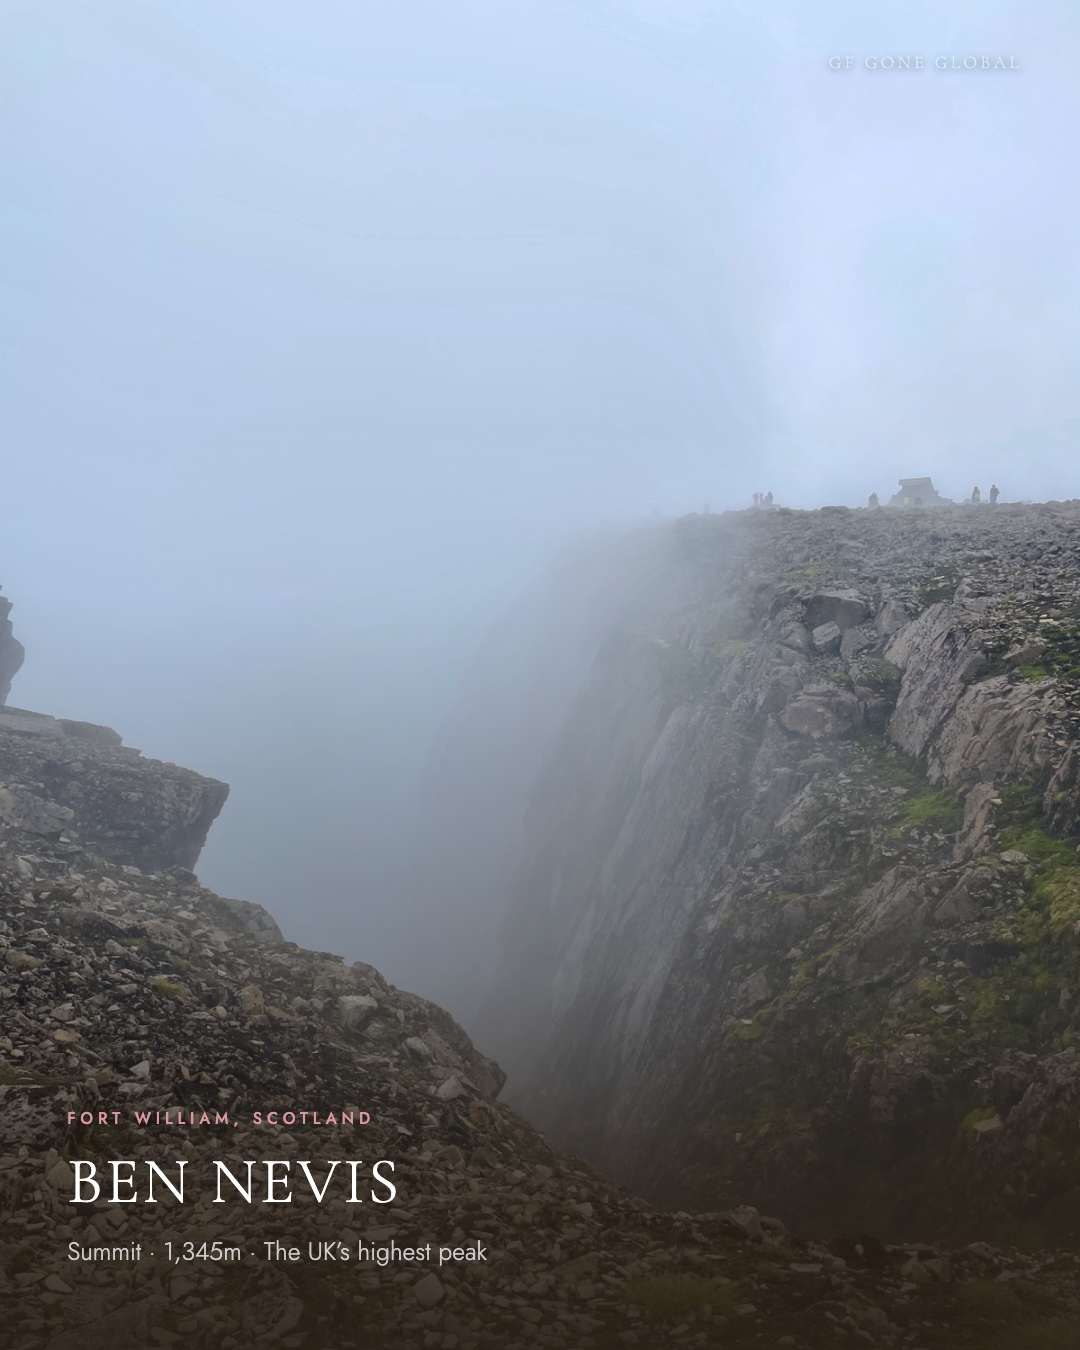
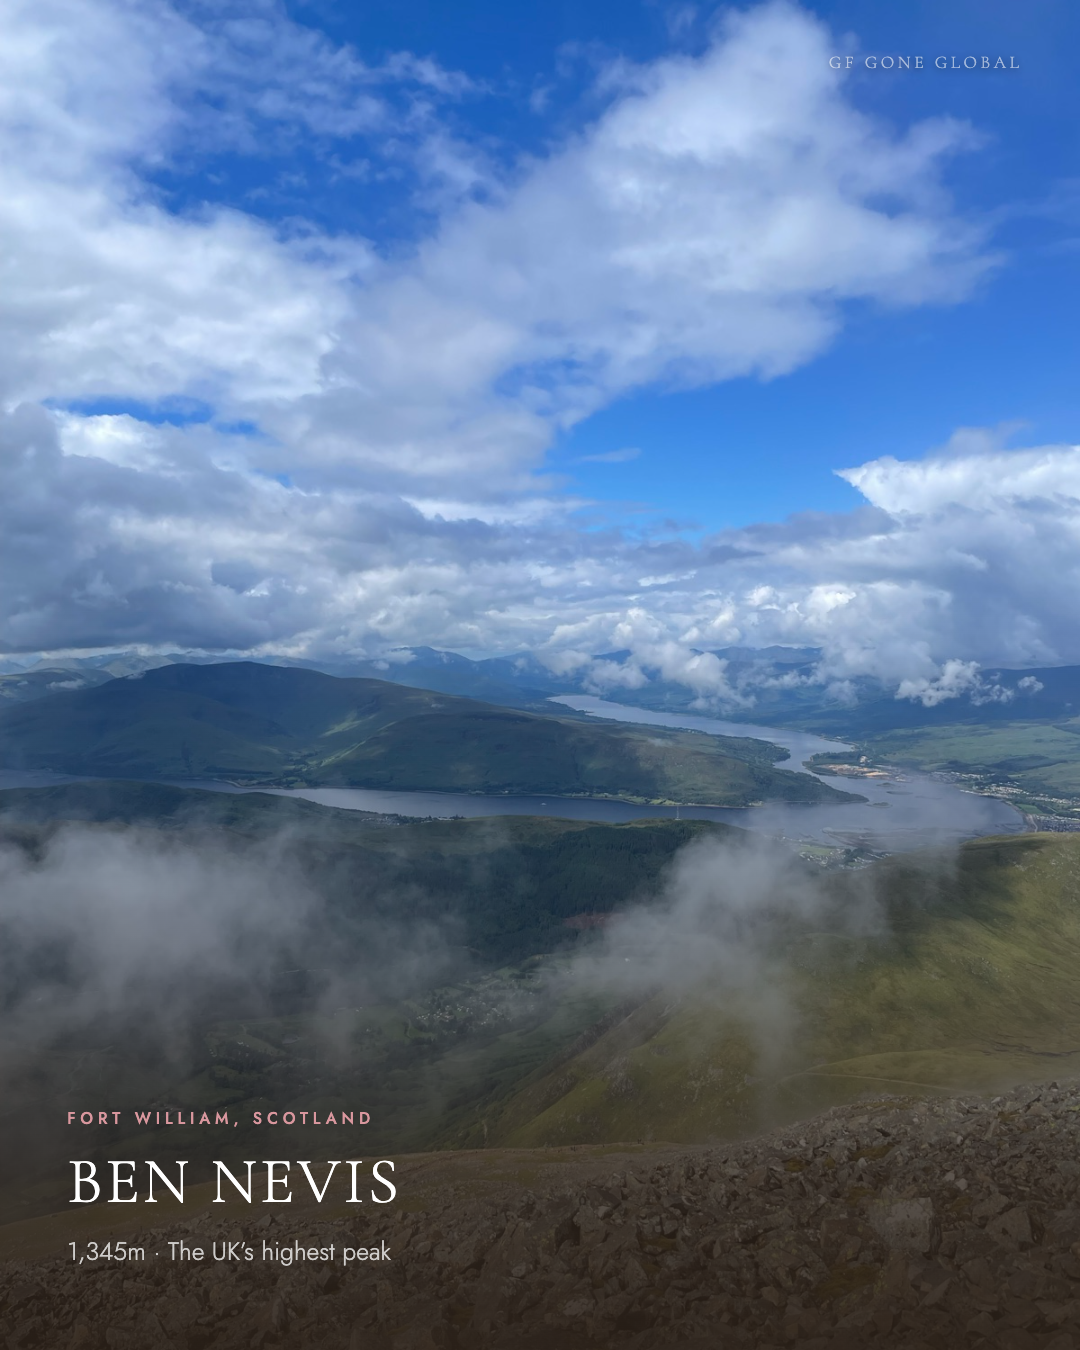
Fort William: lead with the Loch Linnhe view from Ben Nevis
Kelly asked for the Ben Nevis photo with the lake view in place of the
foggy summit cliff. IMG_9018 (upper slopes, July 8 2024) was never in the
exported set, so it came straight from Apple Photos. Re-rendered slide 1 at
4:5 and 2:3; subtitle drops "Summit" since the shot isn't from the summit.
Source JPEG stays local per the carousel-only photo precedent.

diff --git a/instagram/handoff/fort-william-carousel/MANIFEST.md b/instagram/handoff/fort-william-carousel/MANIFEST.md
@@ -2,13 +2,13 @@
 
 **Status: Caption NOT yet written. Not cleared to publish.** Moose writes the single carousel caption; Kelly approves before this goes out. Do not publish until a follow-up updates this status line.
 
-Six slides. It leads with the Ben Nevis summit because that's why people come to Fort William, and the two food slides do the GF work. Two complete sets, same filenames in each folder:
+Six slides. It leads with Ben Nevis because that's why people come to Fort William, and the two food slides do the GF work. Two complete sets, same filenames in each folder:
 - **Instagram (4:5, 1080×1350):** `instagram/exports/`
 - **Pinterest (2:3, 1000×1500):** `instagram/exports/pinterest/`. True re-renders, not crops. All 6 checked at 2:3; no slide falls back to 4:5.
 
 | # | Slide | Filename (same in both folders) | 4:5 Size | Pinterest Size | Notes |
 |---|-------|----------|------|------|-------|
-| 1 | Ben Nevis | `gfgoneglobal-scotland-fort-william-ben-nevis.png` | 1.2M | 1.2M | Summit cliff edge in fog (visited). Moody and grey, which is honest to the day. |
+| 1 | Ben Nevis | `gfgoneglobal-scotland-fort-william-ben-nevis.png` | 1.3MB | 1.4MB | View from the upper slopes down to Loch Linnhe and Fort William, with clouds below (`ben-nevis/IMG_9018.jpeg`, visited). Swapped in 2026-10-25 at Kelly's request for the lake view, replacing the foggy summit cliff (IMG_9008). Subtitle dropped "Summit" since this isn't the summit itself. Distant hikers on the path are unidentifiable. |
 | 2 | Browns | `gfgoneglobal-scotland-fort-william-browns.png` | 1.6M | 1.6M | 3/5. Photo is the GF chocolate tart the guide calls "incredible." The on-site restaurant at Nevis Bank Inn (not the Glasgow Browns). |
 | 3 | Nevis Bank Inn | `gfgoneglobal-scotland-fort-william-nevis-bank-inn.png` | 1.8M | 1.8M | "Where I Stayed" (the guide's own badge), so the label can say so. Exterior with the sign visible. |
 | 4 | The Geographer | `gfgoneglobal-scotland-fort-william-the-geographer.png` | 1.5M | 1.6M | 3/5. Photo is the GF calamari the guide recommends. |
@@ -23,7 +23,8 @@ Six slides. It leads with the Ben Nevis summit because that's why people come to
 2. **Live-site data quirk:** the restaurants badge on the guide says "4 spots," but the page lists 5 restaurant cards. The overview uses 5, the actual count. The badge itself is unchanged, pending Kelly.
 3. **Photos of Kelly** at the summit (`ben-nevis/IMG_9011.jpeg`, `IMG_9013.jpeg`): excluded.
 4. **Stock photo excluded:** `glenfinnan-viaduct/glenfinnan-viaduct-unsplash.jpg`. Glenfinnan is researched-only anyway.
-5. **Misfiled, unused:** `fort-william-scotrail-train-station/IMG_9033.jpeg` shows a park, not a station.
+5. **Ben Nevis lead photo was never exported:** IMG_9018 came straight from Apple Photos (July 8, 2024, index ~7113). The 21 photos already exported for Fort William had no lake view. The source JPEG is local only, not committed, following Glasgow's carousel-only precedent. The rendered slides are committed.
+6. **Misfiled, unused:** `fort-william-scotrail-train-station/IMG_9033.jpeg` shows a park, not a station.
 
 ## Supporting data
 - **Caption:** Not written yet. Moose to draft.
